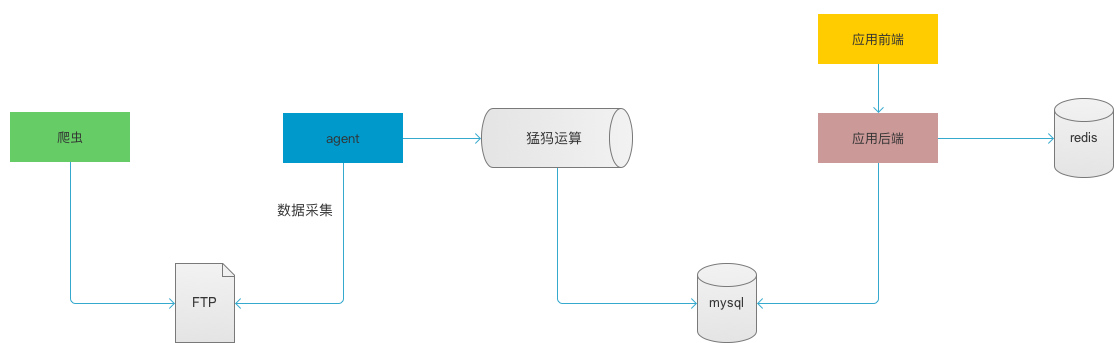
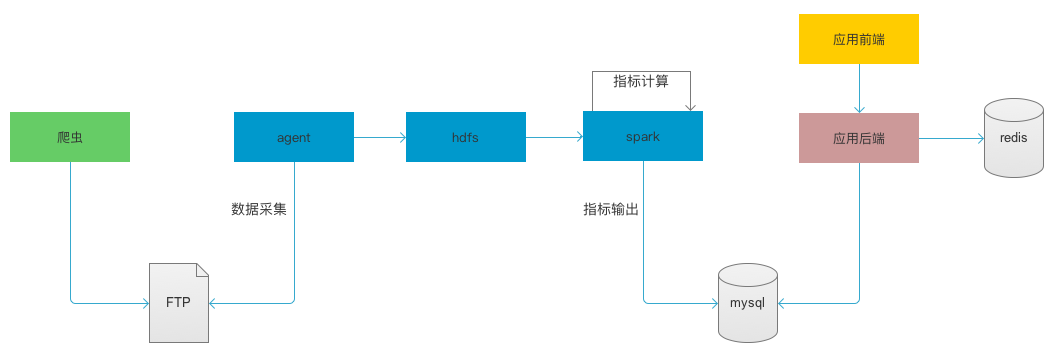
choosegoods

diff --git a/kaola/choosegoods/index.html b/kaola/choosegoods/index.html
@@ -35,13 +35,12 @@
     <!-- Begin slides. Just make elements with a class of slide. -->
 
     <section class="slide" id="index">
-      <h2>采购选品</h2>
-      <ol>王伟</ol>
-      <ol>智慧供应链产品研发</ol>
-      <ol>hzwangwei6@corp.netease.com</ol>
+      <h2>大数据采购选品</h2>
+      <ol>Name：王伟、李雪园</ol>
+      <ol>Department：智慧供应链</ol>
     </section>
 
-    <section class="slide" id="mb">
+    <section class="slide" id="md">
       <h2>目的</h2>
     
       <ul>
@@ -59,8 +58,8 @@
       </ul>
     </section>
 
-    <section class="slide" id="ouer-customer">
-      <h2>渠道</h2>
+    <section class="slide" id="jp">
+      <h2>竞品</h2>
 
       <ul>
         <li>
@@ -96,21 +95,97 @@
         </li>
       </ul>
     </section>
+
+    <section class="slide" id="choosegoods-archit">
+      <h2>技术架构</h2>
+    
+      <img src="./images/choosegoods-archit.png" alt="choosegoods-archit">
+    </section>
+
+    <section class="slide" id="difficulty">
+      <h2>难点</h2>
+
+      <ul>
+        <li>
+          <strong>爬虫</strong>
+        </li>
+
+        <li>
+          <strong>数据分析与算法</strong>
+        </li>
+
+        <li>
+          <strong>数据可视化</strong>
+        </li>
+      </ul>
+    </section>
+  
+    <section class="slide" id="spider">
+      <h2>爬虫</h2>
+
+      <ul>
+        <li>
+          <strong>如何灵活的调整爬取任务？</strong>动态配置爬取任务，根据规则取值
+        </li>
+
+        <li>
+          <strong>如何解决代理IP的问题？</strong>网上爬取免费代理IP
+        </li>
+
+        <li>
+          <strong>如何解决认证？</strong>验证码破解、破解防爬
+        </li>
+      </ul>
+    
+      <img src="./images/spider2.png" alt="spider2">
+    </section>
+
+    <section class="slide" id="data-archit">
+      <h2>数据分析</h2>
+
+      <img src="./images/data-archit.jpg" alt="data-archit">
+    </section>
 	
     <section class="slide" id="data-ziyin">
-      <h2>数据维度-自营</h2>
+      <h2>自营分析角度</h2>
 
       <img src="./images/ziyin.png" alt="ziyin">
     </section>
 
-    <section class="slide" id="ziyin-page">
-      <h2>自营页面示例</h2>
-    
-      <img src="./images/ziyin-page.png" alt="pop-page">
+    <section class="slide" id="lack-column">
+      <h2>数据分析案例-品牌补全</h2>
+
+      <p>有许多商品的品牌不能直接爬取到，但是隐含在标题中，如何从标题中提取出品牌信息？</p>
+
+      <img src="./images/lack-column.png" alt="lack-column">
+    </section>
+
+    <section class="slide" id="compare">
+      <h2>数据分析案例-竞品匹配</h2>
+
+      <p>如何区分是否考拉已有商品？</p>
+
+      <ul>
+        <li>
+          <strong>人肉匹配</strong>
+        </li>
+
+        <li>
+          <strong>通过竞品app条形码接口返回竞品商品信息</strong>
+        </li>
+
+        <li>
+          <strong>标题相似度</strong>
+        </li>
+
+        <li>
+          <strong>图片相似度</strong>
+        </li>
+      </ul>
     </section>
 
     <section class="slide" id="data-pop">
-      <h2>数据维度-POP</h2>
+      <h2>POP数据分析角度</h2>
 
       <ul>
         <li>
@@ -150,57 +225,11 @@
         </li>
       </ul>
     </section>
-
-    <section class="slide" id="pop-page">
-      <h2>POP页面示例</h2>
-    
-      <img src="./images/pop-page3.png" alt="pop-page">
-    </section>
-
-    <section class="slide" id="choosegoods-archit">
-      <h2>技术架构</h2>
-    
-      <img src="./images/choosegoods-archit.png" alt="choosegoods-archit">
-    </section>
-
-    <section class="slide" id="spider">
-      <h2>爬虫</h2>
-
-      <img src="./images/spider.png" alt="spider">
-
-    </section>
-
-    <section class="slide" id="spider-optimize">
-      <h2>爬虫优化</h2>
-    
-      <ul>
-        <li class="slide" id="spider-optimize-agility">
-          <strong>如何灵活的调整爬取任务？</strong>
-          动态配置爬取任务，根据规则取值
-        </li>
-
-        <li class="slide" id="spider-optimize-proxyip">
-          <strong>如何解决代理IP的问题？</strong>
-          网上爬取免费代理IP
-        </li>
-
-        <li class="slide" id="spider-optimize-authorize">
-          <strong>如何解决认证？</strong>
-          验证码破解、破解防爬
-        </li>
-      </ul>
-    </section>
 	
-    <section class="slide" id="spider2">
-      <h2>爬虫方案分享</h2>
-	  
-      <img src="./images/spider2.png" alt="spider2">
-    </section>
-	
-    <section class="slide" id="archit2017q3">
-      <h2>数据处理</h2>
+    <section class="slide" id="view-archit">
+      <h2>数据可视化</h2>
 
-      <img src="./images/data-exe.png" alt="archit2017q3">
+      <img src="./images/data-exe.png" alt="view-archit">
     </section>
 	
     <section class="slide" id="questions4soa">
